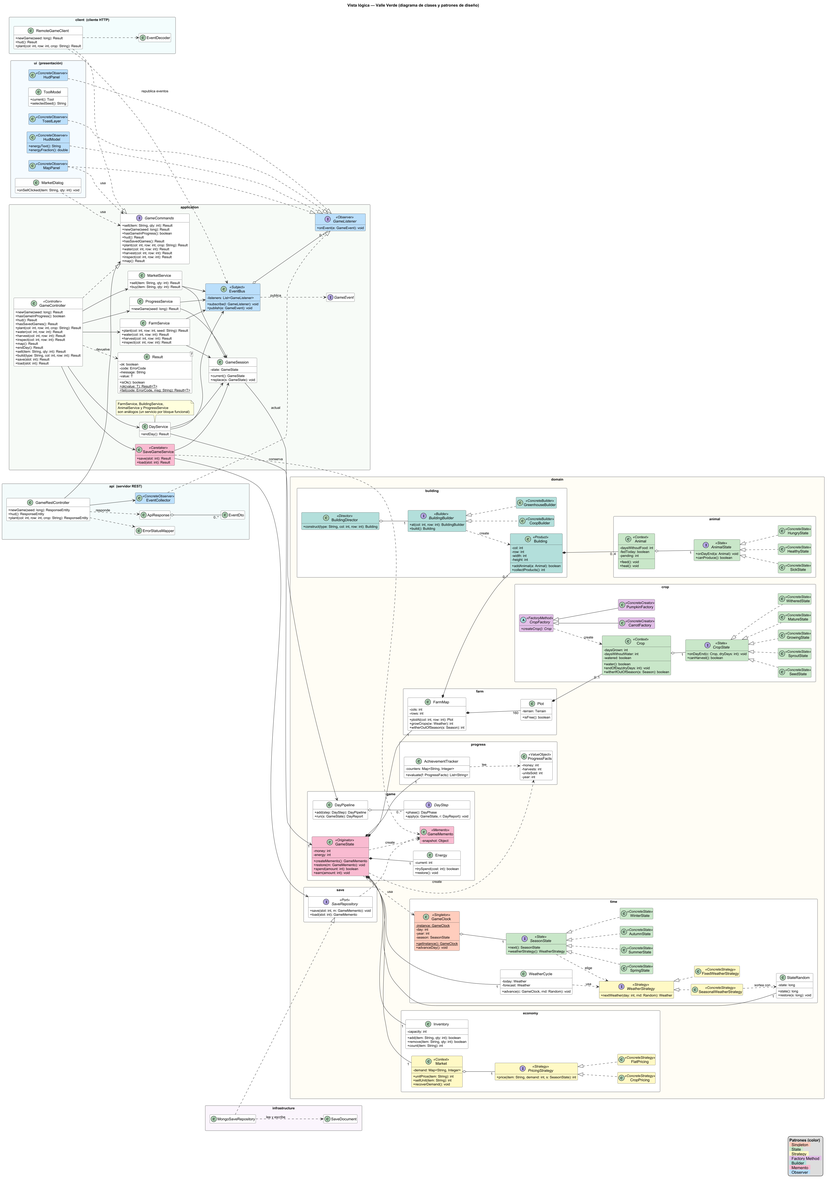
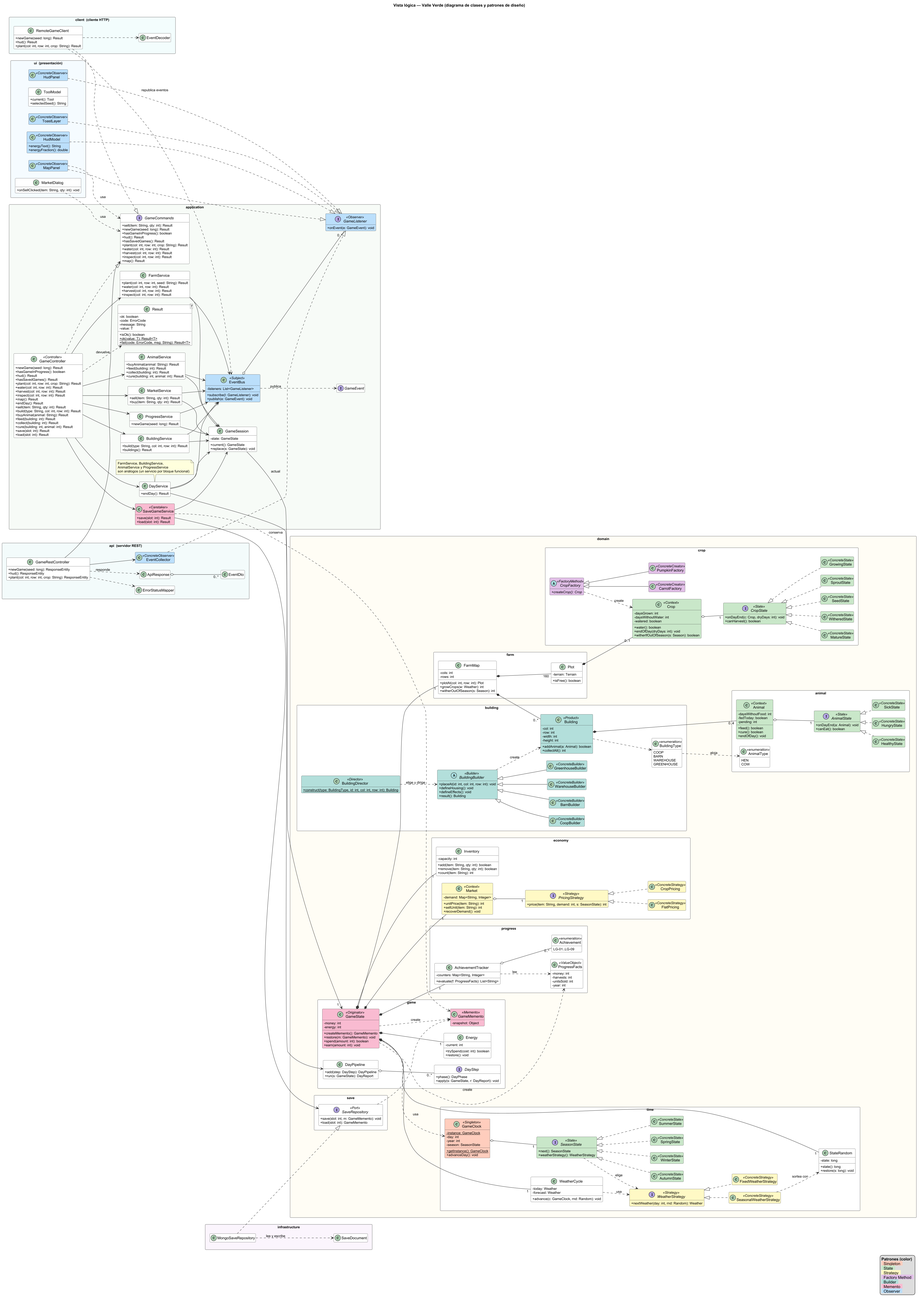
docs(architecture): record phase 5.4 results, extend the API reference and update the logical and development diagrams

diff --git a/docs/TRAZABILIDAD.md b/docs/TRAZABILIDAD.md
@@ -23,15 +23,15 @@
 | RF-14 | Must | HU-14 | Economía | BuyOfferView, GameCommands, GameController, GameEvent, GameRestController, GameState, Market, MarketDialog, MarketPresenter, MarketService, MarketView, RemoteGameClient | HU-14: 7 |
 | RF-15 | Must | HU-15 | Economía | CropPricing, FlatPricing, GameCommands, GameController, GameEvent, GameMemento, GameRestController, GameState, Market, MarketDialog, MarketPresenter, MarketService, MarketSnapshot, MarketStep, MarketView, PricingStrategy, RemoteGameClient, SellOfferView | HU-15: 12 |
 | RF-16 | Should | HU-16 | Economía | GameCommands, GameController, GameMemento, GameRestController, Market, MarketDialog, MarketPresenter, MarketService, MarketSnapshot, MarketStep, MarketView, RemoteGameClient, SellOfferView, Trend | HU-16: 6 |
-| RF-17 | Could | HU-17 | Tiempo y clima | pendiente | HU-17: 0 |
-| RF-18 | Must | HU-18 | Construcción y | pendiente | HU-18: 0 |
-| RF-19 | Must | HU-19 | Construcción y | pendiente | HU-19: 0 |
-| RF-20 | Must | HU-20 | Construcción y | pendiente | HU-20: 0 |
-| RF-21 | Must | HU-21 | Construcción y | pendiente | HU-21: 0 |
-| RF-22 | Must | HU-22 | Construcción y | pendiente | HU-22: 0 |
-| RF-23 | Should | HU-23 | Construcción y | pendiente | HU-23: 0 |
+| RF-17 | Could | HU-17 | Tiempo y clima | DayLedger, DayPipeline, DayReport, DayService, DaySummaryDialog, DaySummaryText, DaySummaryView, GameCommands, GameController, GameDialogs, GameEvent, GameMemento, GameRestController, GameScreen, GameScreenPresenter, GameState, LedgerSnapshot, RemoteGameClient, ViewMapper | HU-17: 9 |
+| RF-18 | Must | HU-18 | Construcción y | Achievement, AchievementTracker, BarnBuilder, Building, BuildingBuilder, BuildingDirector, BuildingOfferView, BuildingService, BuildingSnapshot, BuildingType, BuildingView, BuildingsView, ConstructionDialog, ConstructionPresenter, CoopBuilder, FarmMap, FarmMapSnapshot, GameCommands, GameController, GameDialogs, GameMemento, GameRestController, GameScreen, GameScreenPresenter, GameState, GreenhouseBuilder, MapRenderer, Names, RemoteGameClient, ViewMapper, WarehouseBuilder | HU-18: 17 |
+| RF-19 | Must | HU-19 | Construcción y | Animal, AnimalOfferView, AnimalService, AnimalSnapshot, AnimalType, AnimalView, Building, BuildingView, GameCommands, GameController, GameRestController, MapRenderer, MarketPresenter, MarketService, MarketView, RemoteGameClient | HU-19: 6 |
+| RF-20 | Must | HU-20 | Construcción y | Animal, AnimalService, Building, BuildingActionView, BuildingDialog, BuildingPresenter, GameCommands, GameController, GameRestController, GameScreen, GameScreenPresenter, RemoteGameClient | HU-20: 10 |
+| RF-21 | Must | HU-21 | Construcción y | Animal, AnimalCondition, AnimalSnapshot, AnimalState, AnimalView, AnimalsStep, DayReport, HealthyState, HungryState, SickState | HU-21: 5 |
+| RF-22 | Must | HU-22 | Construcción y | Animal, AnimalService, AnimalsStep, Building, BuildingActionView, BuildingDialog, BuildingPresenter, DayReport, GameCommands, GameController, GameRestController, GameScreen, GameScreenPresenter, HealthyState, HungryState, RemoteGameClient, SickState | HU-22: 10 |
+| RF-23 | Should | HU-23 | Construcción y | Animal, AnimalService, BuildingActionView, BuildingDialog, BuildingPresenter, GameCommands, GameController, GameRestController, GameScreen, RemoteGameClient, SickState | HU-23: 8 |
 | RF-24 | Could | HU-25 | Construcción y | pendiente | HU-25: 0 |
-| RF-25 | Should | HU-24 | Construcción y | pendiente | HU-24: 0 |
+| RF-25 | Should | HU-24 | Construcción y | Building, BuildingService | HU-24: 5 |
 | RF-26 | Must | HU-26 | Progreso | pendiente | HU-26: 0 |
 | RF-27 | Should | HU-27 | Progreso | pendiente | HU-27: 0 |
 | RF-28 | Must | HU-28 | Progreso | FarmMap, GameCommands, GameController, GameRestController, GameRules, GameSession, GameState, HudView, Plot, ProgressService, RemoteGameClient, Result, StartScreenPresenter, Terrain, ViewMapper | HU-28: 8 |
@@ -41,10 +41,10 @@
 | RF-32 | Should | HU-32 | Guardado | pendiente | HU-32: 0 |
 | RF-33 | Must | HU-33 | Interfaz de usuario | GameCommands, GameController, GameRestController, GameRules, GameScreen, Main, MongoSaveRepository, RemoteGameClient, SaveDocument, SaveGameService, SaveRepository, SaveStorageException, ScreenNavigator, ScreenRouter, StartScreen, StartScreenPresenter, Texts | HU-33: 11 |
 | RF-34 | Must | HU-34 | Interfaz de usuario | GameEvent, GameScreen, GameScreenPresenter, HudModel, HudPanel, HudView, Texts, ViewMapper | HU-34: 8 |
-| RF-35 | Must | HU-35 | Interfaz de usuario | CellPos, FarmService, GameCommands, GameController, GameRestController, GameScreen, MapGeometry, MapPanel, MapRenderer, MapView, Palette, PlotClickListener, RemoteGameClient, ViewMapper | HU-35: 10 |
-| RF-36 | Must | HU-36 | Interfaz de usuario | GameScreen, GameScreenPresenter, Shortcut, Texts, Tool, ToolBar, ToolModel | HU-36: 13 |
-| RF-37 | Must | HU-37 | Interfaz de usuario | GameCommands, GameController, GameDialogs, GameRestController, GameScreen, InventoryDialog, InventoryGrid, InventoryModel, InventoryView, MarketService, RemoteGameClient, SlotView | HU-37: 8 |
-| RF-38 | Must | HU-38 | Interfaz de usuario | BuyOfferView, GameCommands, GameController, GameDialogs, GameRestController, GameScreen, MarketDialog, MarketPresenter, MarketService, MarketView, RemoteGameClient, SellOfferView | HU-38: 8 |
+| RF-35 | Must | HU-35 | Interfaz de usuario | AnimalView, BuildingView, CellPos, FarmService, GameCommands, GameController, GameRestController, GameScreen, MapGeometry, MapPanel, MapRenderer, MapView, Palette, PlotClickListener, PlotText, RemoteGameClient, ViewMapper | HU-35: 14 |
+| RF-36 | Must | HU-36 | Interfaz de usuario | GameScreen, GameScreenPresenter, Shortcut, Texts, Tool, ToolBar, ToolModel | HU-36: 18 |
+| RF-37 | Must | HU-37 | Interfaz de usuario | GameCommands, GameController, GameDialogs, GameRestController, GameScreen, InventoryDialog, InventoryGrid, InventoryModel, InventoryView, MarketService, RemoteGameClient, SlotView | HU-37: 9 |
+| RF-38 | Must | HU-38 | Interfaz de usuario | AnimalOfferView, BuyOfferView, GameCommands, GameController, GameDialogs, GameRestController, GameScreen, MarketDialog, MarketPresenter, MarketService, MarketView, RemoteGameClient, SellOfferView | HU-38: 10 |
 | RF-39 | Should | HU-39 | Interfaz de usuario | pendiente | HU-39: 0 |
 | RF-40 | Could | HU-40 | Interfaz de usuario | pendiente | HU-40: 0 |
 | RF-41 | Could | HU-41 | Interfaz de usuario | pendiente | HU-41: 0 |
@@ -70,14 +70,14 @@
 | HU-14 · Comprar en el mercado | 5.3 | Must | 4 | 7 | completa | BuyOfferView, GameCommands, GameController, GameEvent, GameRestController, GameState, Market, MarketDialog, MarketPresenter, MarketService, MarketView, RemoteGameClient |
 | HU-15 · Vender con precio dinámico | 5.3 | Must | 6 | 12 | completa | CropPricing, FlatPricing, GameCommands, GameController, GameEvent, GameMemento, GameRestController, GameState, Market, MarketDialog, MarketPresenter, MarketService, MarketSnapshot, MarketStep, MarketView, PricingStrategy, RemoteGameClient, SellOfferView |
 | HU-16 · Tendencia de precio | 5.3 | Should | 4 | 6 | completa | GameCommands, GameController, GameMemento, GameRestController, Market, MarketDialog, MarketPresenter, MarketService, MarketSnapshot, MarketStep, MarketView, RemoteGameClient, SellOfferView, Trend |
-| HU-17 · Resumen del día | 5.4 | Could | 4 | 0 | sin pruebas | pendiente |
-| HU-18 · Construir edificios | 5.4 | Must | 6 | 0 | sin pruebas | pendiente |
-| HU-19 · Comprar animales | 5.4 | Must | 4 | 0 | sin pruebas | pendiente |
-| HU-20 · Alimentar animales | 5.4 | Must | 5 | 0 | sin pruebas | pendiente |
-| HU-21 · Estados del animal | 5.4 | Must | 4 | 0 | sin pruebas | pendiente |
-| HU-22 · Producción y recolección | 5.4 | Must | 4 | 0 | sin pruebas | pendiente |
-| HU-23 · Curar animales enfermos | 5.4 | Should | 4 | 0 | sin pruebas | pendiente |
-| HU-24 · Construir y usar el almacén | 5.5 | Should | 4 | 0 | sin pruebas | pendiente |
+| HU-17 · Resumen del día | 5.4 | Could | 4 | 9 | completa | DayLedger, DayPipeline, DayReport, DayService, DaySummaryDialog, DaySummaryText, DaySummaryView, GameCommands, GameController, GameDialogs, GameEvent, GameMemento, GameRestController, GameScreen, GameScreenPresenter, GameState, LedgerSnapshot, RemoteGameClient, ViewMapper |
+| HU-18 · Construir edificios | 5.4 | Must | 6 | 17 | completa | Achievement, AchievementTracker, BarnBuilder, Building, BuildingBuilder, BuildingDirector, BuildingOfferView, BuildingService, BuildingSnapshot, BuildingType, BuildingView, BuildingsView, ConstructionDialog, ConstructionPresenter, CoopBuilder, FarmMap, FarmMapSnapshot, GameCommands, GameController, GameDialogs, GameMemento, GameRestController, GameScreen, GameScreenPresenter, GameState, GreenhouseBuilder, MapRenderer, Names, RemoteGameClient, ViewMapper, WarehouseBuilder |
+| HU-19 · Comprar animales | 5.4 | Must | 4 | 6 | completa | Animal, AnimalOfferView, AnimalService, AnimalSnapshot, AnimalType, AnimalView, Building, BuildingView, GameCommands, GameController, GameRestController, MapRenderer, MarketPresenter, MarketService, MarketView, RemoteGameClient |
+| HU-20 · Alimentar animales | 5.4 | Must | 5 | 10 | completa | Animal, AnimalService, Building, BuildingActionView, BuildingDialog, BuildingPresenter, GameCommands, GameController, GameRestController, GameScreen, GameScreenPresenter, RemoteGameClient |
+| HU-21 · Estados del animal | 5.4 | Must | 4 | 5 | completa | Animal, AnimalCondition, AnimalSnapshot, AnimalState, AnimalView, AnimalsStep, DayReport, HealthyState, HungryState, SickState |
+| HU-22 · Producción y recolección | 5.4 | Must | 4 | 10 | completa | Animal, AnimalService, AnimalsStep, Building, BuildingActionView, BuildingDialog, BuildingPresenter, DayReport, GameCommands, GameController, GameRestController, GameScreen, GameScreenPresenter, HealthyState, HungryState, RemoteGameClient, SickState |
+| HU-23 · Curar animales enfermos | 5.4 | Should | 4 | 8 | completa | Animal, AnimalService, BuildingActionView, BuildingDialog, BuildingPresenter, GameCommands, GameController, GameRestController, GameScreen, RemoteGameClient, SickState |
+| HU-24 · Construir y usar el almacén | 5.5 | Should | 4 | 5 | completa | Building, BuildingService |
 | HU-25 · Construir y usar el invernadero | 5.6 | Could | 5 | 0 | sin pruebas | pendiente |
 | HU-26 · Registrar logros | 5.5 | Must | 5 | 0 | sin pruebas | pendiente |
 | HU-27 · Desbloquear edificios por logros | 5.5 | Should | 4 | 0 | sin pruebas | pendiente |
@@ -88,13 +88,13 @@
 | HU-32 · Listar ranuras de guardado | 5.5 | Should | 3 | 0 | sin pruebas | pendiente |
 | HU-33 · Pantalla de inicio | 5.1 | Must | 4 | 11 | completa | GameCommands, GameController, GameRestController, GameRules, GameScreen, Main, MongoSaveRepository, RemoteGameClient, SaveDocument, SaveGameService, SaveRepository, SaveStorageException, ScreenNavigator, ScreenRouter, StartScreen, StartScreenPresenter, Texts |
 | HU-34 · HUD superior | 5.1 | Must | 4 | 8 | completa | GameEvent, GameScreen, GameScreenPresenter, HudModel, HudPanel, HudView, Texts, ViewMapper |
-| HU-35 · Mapa de la granja | 5.2 | Must | 5 | 10 | completa | CellPos, FarmService, GameCommands, GameController, GameRestController, GameScreen, MapGeometry, MapPanel, MapRenderer, MapView, Palette, PlotClickListener, RemoteGameClient, ViewMapper |
-| HU-36 · Herramientas y clic sobre parcelas | 5.2 | Must | 5 | 13 | completa | GameScreen, GameScreenPresenter, Shortcut, Texts, Tool, ToolBar, ToolModel |
-| HU-37 · Inventario en grilla | 5.3 | Must | 4 | 8 | completa | GameCommands, GameController, GameDialogs, GameRestController, GameScreen, InventoryDialog, InventoryGrid, InventoryModel, InventoryView, MarketService, RemoteGameClient, SlotView |
-| HU-38 · Mercado modal | 5.3 | Must | 4 | 8 | completa | BuyOfferView, GameCommands, GameController, GameDialogs, GameRestController, GameScreen, MarketDialog, MarketPresenter, MarketService, MarketView, RemoteGameClient, SellOfferView |
+| HU-35 · Mapa de la granja | 5.2 | Must | 5 | 14 | completa | AnimalView, BuildingView, CellPos, FarmService, GameCommands, GameController, GameRestController, GameScreen, MapGeometry, MapPanel, MapRenderer, MapView, Palette, PlotClickListener, PlotText, RemoteGameClient, ViewMapper |
+| HU-36 · Herramientas y clic sobre parcelas | 5.2 | Must | 5 | 18 | completa | GameScreen, GameScreenPresenter, Shortcut, Texts, Tool, ToolBar, ToolModel |
+| HU-37 · Inventario en grilla | 5.3 | Must | 4 | 9 | completa | GameCommands, GameController, GameDialogs, GameRestController, GameScreen, InventoryDialog, InventoryGrid, InventoryModel, InventoryView, MarketService, RemoteGameClient, SlotView |
+| HU-38 · Mercado modal | 5.3 | Must | 4 | 10 | completa | AnimalOfferView, BuyOfferView, GameCommands, GameController, GameDialogs, GameRestController, GameScreen, MarketDialog, MarketPresenter, MarketService, MarketView, RemoteGameClient, SellOfferView |
 | HU-39 · Notificaciones (toasts) | 5.6 | Should | 4 | 0 | sin pruebas | pendiente |
 | HU-40 · Efectos visuales de estación y clima | 5.6 | Could | 4 | 0 | sin pruebas | pendiente |
 | HU-41 · Animaciones suaves | 5.6 | Could | 4 | 0 | sin pruebas | pendiente |
 | HU-42 · Carga de sprites con respaldo vectorial | 5.6 | Should | 4 | 0 | sin pruebas | pendiente |
 
-**Resumen:** 23 de 42 historias con todas sus pruebas; 194 pruebas `HUxx_` en total.
+**Resumen:** 31 de 42 historias con todas sus pruebas; 276 pruebas `HUxx_` en total.

diff --git a/docs/ARQUITECTURA.md b/docs/ARQUITECTURA.md
@@ -2,7 +2,7 @@
 
 > **Versión 0.2 · 2026-11-22 · Fase 5.2b (migración a Spring Boot)**
 > Formaliza el diseño propuesto en los diagramas ([`DIAGRAMAS.md`](DIAGRAMAS.md)): capas, árbol de paquetes, decisiones técnicas y plan de implementación por fases con sus historias ([`HISTORIAS_DE_USUARIO.md`](HISTORIAS_DE_USUARIO.md) §7). El plan de pruebas está en [`PLAN_DE_PRUEBAS.md`](PLAN_DE_PRUEBAS.md).
-> **Estado:** las Fases 5.0 (§10), 5.1 (§11), 5.2 (§12) y 5.2b (§13, migración a servidor Spring Boot con API REST, cliente Swing por HTTP y persistencia en MongoDB) y 5.3 (§14) están hechas. La Fase 5.4 empieza solo con tu visto bueno.
+> **Estado:** las Fases 5.0 (§10), 5.1 (§11), 5.2 (§12) y 5.2b (§13, migración a servidor Spring Boot con API REST, cliente Swing por HTTP y persistencia en MongoDB) 5.3 (§14) y 5.4 (§15) están hechas. La Fase 5.5 empieza solo con tu visto bueno.
 
 ## 1. Estilo arquitectónico
 
@@ -173,8 +173,8 @@ Como en la secuencia [A1](diagramas/A1_secuencia_vender_cosecha.png):
 | **5.2** Cultivo | HU-01 a 07, 35, 36 (**29**) | `FarmMap`, `Plot`, `Crop`, `CropState` ×5, `CropFactory` ×5, `FarmService`, pasos de crecimiento y marchitamiento, DTO de parcela, mapa Java2D en vectores, barra de herramientas, tooltips | mapa con parcelas, herramientas 1–5 y clic | State (cultivo), Factory Method | **1** (fuera de estación), **2** (inventario lleno) |
 | **5.2b** Migración a Spring Boot | — (sin historias nuevas: conserva las 163 pruebas) | `pom.xml` con Spring Boot 3.5.16; interfaz `GameCommands`; capa `api` (`GameRestController`, `ErrorStatusMapper`, `EventCollector`); `client` (`RemoteGameClient`); `config`; `MongoSaveRepository` en lugar de `JsonSaveRepository`; `Main` con modos; reglas AR-1 a AR-3 y AR-11; `docs/API.md` | la misma de la 5.2, ahora sobre HTTP | — (el Observer cruza la red en el sobre de respuesta) | todas las anteriores en verde; arranque ≤ 5 s (RNF-02) |
 | **5.3** Clima y economía | HU-12, 37, 14, 15, 16, 38 (**23**) | efectos del clima en el *pipeline*, `Market`, `PricingStrategy` ×2, `MarketService`, paso de mercado, `InventoryGrid`, `MarketDialog` | inventario en grilla y mercado modal | Strategy (precios) | **3** (helada), **4** (saturación) |
-| **5.4** Construcción y animales | HU-18 a 23, 17 (**21**) | `Building`, `BuildingBuilder` ×4, `BuildingDirector`, `Animal`, `AnimalState` ×3, `BuildingService`, `AnimalService`, paso de animales, `DaySummary` | diálogo de construcción y panel del edificio (alimentar, recolectar, curar) | Builder, State (animal) | **5** (animal enfermo no produce) |
-| **5.5** Progresión y persistencia | HU-26, 27, 24, 29, 30, 31, 32 (**24**) | `AchievementTracker`, `ProgressFacts`, desbloqueos, `GameMemento`, `GameStateValidator`, `SaveRepository`, `MongoSaveRepository`, `SaveCodec`, `Checksum`, `SaveGameService`; **pruebas de rendimiento a plena carga** (HU-10 · CA-3, HU-29 · CA-4, HU-30 · CA-4) | diálogos de ranuras, logros y atajos `F5`/`F9` | Memento (completo: documento en MongoDB) | **6** (guardar → cargar idéntico), **7** (partida dañada o inexistente) |
+| **5.4** Construcción y animales | HU-18 a 24, 17 (**23**) | `Building`, `BuildingBuilder` ×4, `BuildingDirector`, `Animal`, `AnimalState` ×3, `BuildingService`, `AnimalService`, paso de animales, `DaySummary` | diálogo de construcción y panel del edificio (alimentar, recolectar, curar) | Builder, State (animal) | **5** (animal enfermo no produce) |
+| **5.5** Progresión y persistencia | HU-26, 27, 29, 30, 31, 32 (**22**) | `AchievementTracker`, `ProgressFacts`, desbloqueos, `GameMemento`, `GameStateValidator`, `SaveRepository`, `MongoSaveRepository`, `SaveCodec`, `Checksum`, `SaveGameService`; **pruebas de rendimiento a plena carga** (HU-10 · CA-3, HU-29 · CA-4, HU-30 · CA-4) | diálogos de ranuras, logros y atajos `F5`/`F9` | Memento (completo: documento en MongoDB) | **6** (guardar → cargar idéntico), **7** (partida dañada o inexistente) |
 | **5.6** Interfaz visual y extras *(recortable)* | HU-39, 42, 25, 40, 41 (**19**) | `ToastLayer`, `AssetManager` y respaldo vectorial, invernadero, efectos (`ParticleSystem`, `DayNightTint`), animaciones con `Timer`; `docs/ASSETS.md`, README final y matriz de trazabilidad completa; decisión sobre FlatLaf | pulido visual | Observer (completado) | — |
 
 **Qué se actualiza al cerrar cada fase:** el diagrama de clases si aparecen clases nuevas con responsabilidad estructural, el de desarrollo si cambia un paquete o una dependencia (lo comprueba `tools/check_diagrams.py`) y la matriz de trazabilidad (RF → HU → diagrama → clases → pruebas).
@@ -279,7 +279,7 @@ Ajustes surgidos al implementar: (1) `Main` se declara como capa «Composition»
 | D-10 | La herramienta «Cosechar» cosecha, limpia o (en 5.4) recolecta según el contenido de la parcela | RN-34 |
 | D-11 | Código nuevo `CULTIVO_MARCHITO` en RN-35 | RN-07 manda rechazar el riego de un cultivo marchito y no había código para ello |
 | D-12 | Regar un cultivo maduro se permite (cuesta energía sin efecto) | RN-07 solo exige «vivo y sin regar hoy»; el rechazo necesitaría una regla nueva |
-| D-13 | Las herramientas «Construir» y «Alimentar» y los atajos `M`, `I`, `L`, `F5`, `F9` se pueden pulsar y responden «estará disponible en una fase posterior» | HU-36 · CA-1 y CA-5 piden que existan; sus pantallas llegan en 5.3, 5.4 y 5.5 |
+| D-13 | Las herramientas «Construir» y «Alimentar» y los atajos `M`, `I`, `L`, `F5`, `F9` se pueden pulsar; los que aún no tienen pantalla responden «estará disponible en una fase posterior» (en 5.3 y 5.4 ya funcionan `M`, `I`, «Construir» y «Alimentar»; quedan `L`, `F5` y `F9` para 5.5) | HU-36 · CA-1 y CA-5 piden que existan |
 | D-14 | `MapPanel` consulta el mapa solo al recibir un evento (`GameStarted`, `DayEnded`, `MapChanged`); no tiene `Timer` (lo verifica una prueba) | Regla de interfaz: actualizar por eventos, no por consulta en bucle |
 | D-15 | Geometría (`MapGeometry`) y dibujo (`MapRenderer`) son clases sin componente | Se prueban pintando sobre un `BufferedImage`, sin pantalla |
 
@@ -361,11 +361,50 @@ Ajustes surgidos al implementar: (1) `Main` se declara como capa «Composition»
 | Criterio | Qué falta | Fase |
 |---|---|---|
 | HU-28 · CA-1 | solo falta que los logros bloqueados empiecen con contadores en 0 (la demanda 100 ya se prueba) | 5.5 |
-| HU-37 · CA-2 | la grilla ya refleja la capacidad que informe el inventario; construir el Almacén (+12) llega con HU-20 | 5.4 |
-| HU-38 · CA-3 | el ejemplo de la Vaca (800 m): el catálogo de compra solo tiene semillas, heno y medicina; las compras de Gallina y Vaca llegan con los edificios. La prueba usa Medicina | 5.4 |
+| HU-37 · CA-2 | la grilla ya refleja la capacidad que informe el inventario; construir el Almacén (+12) | cerrado en 5.4 |
+| HU-38 · CA-3 | el ejemplo de la Vaca (800 m) | cerrado en 5.4 |
 | HU-10 · CA-3, HU-33 · CA-3 | rendimiento a plena carga y cargar una partida guardada | 5.5 |
-| HU-35 · CA-3, HU-36 · CA-4 | dibujar edificios y animales; recolectar sus productos con «Cosechar» | 5.4 |
+| HU-35 · CA-3, HU-36 · CA-4 | dibujar edificios y animales; recolectar sus productos con «Cosechar» | cerrados en 5.4 |
 | HU-36 · CA-5 | los atajos `L`, `F5` y `F9` aún responden que llegarán (`M` e `I` ya abren su función) | 5.5 |
 
 **Diagramas:** `04_vista_desarrollo` incluye las clases nuevas; el resto de vistas ya tenían el diseño de la economía (Strategy de precios, `MarketService`, `MarketDialog`). `check_diagrams.py` y `check_imports.py` terminan sin errores.
 
+---
+
+## 15. Estado de la Fase 5.4 (construcción y animales)
+
+**Historias cerradas (8 historias, 23 puntos):** HU-17, 18, 19, 20, 21, 22, 23 y 24. HU-24 (Almacén) se adelantó desde la 5.5 porque HU-37 · CA-2 pedía las 36 casillas. `python tools/traceability.py --upto 5.4` termina sin errores.
+
+| Resultado | Valor |
+|---|---|
+| Pruebas | 379 en verde y 2 omitidas con aviso (las de MongoDB real) |
+| Cobertura de líneas (JaCoCo) | **dominio 98,0 %**, **aplicación 97,8 %**, UI 91,8 %, API 95,7 %, cliente 90,0 % (barrera: 70 % en dominio y aplicación) |
+| Patrones aplicados | Builder: `BuildingBuilder` con `CoopBuilder`, `BarnBuilder`, `WarehouseBuilder`, `GreenhouseBuilder`, `BuildingDirector` y `Building` como producto; State: `AnimalState` con `HealthyState`, `HungryState`, `SickState` y `Animal` como contexto; todos registrados en `patterns.txt` |
+| Prueba crítica cerrada | **5** `HU22_ca2_aSickHenProducesNothing_criticalTest` (y la variante de la gallina hambrienta) |
+| API nueva | `GET|POST /api/buildings`, `POST /api/animals`, `POST /api/buildings/{id}/feeding`, `/collection` y `/animals/{n}/treatment`; el resumen del día viaja como evento `DaySummaryReady` (ver [`API.md`](API.md)) |
+| Verificadores | `check_hu.py`, `check_diagrams.py`, `check_imports.py` y `traceability.py` terminan sin errores |
+
+**Decisiones tomadas al implementar:**
+
+| # | Decisión | Motivo |
+|---|---|---|
+| D-33 | `Achievement` (los nueve logros de RN-28) y `AchievementTracker` ya existen con solo el conjunto de logros desbloqueados | RN-29 y HU-18 · CA-5 necesitan saber qué edificios están bloqueados; los contadores y la evaluación llegan en 5.5 (HU-26) |
+| D-34 | Construir comprueba en el orden de RN-21 (ubicación, desbloqueo, límite, saldo); comprar un animal comprueba primero el saldo y luego la plaza | HU-38 · CA-3 pide `SIN_FONDOS` aunque no haya Establo |
+| D-35 | Alimentar, recolectar y curar responden `BuildingActionView` (edificio, cantidad y un aviso opcional) | «No hay nada que alimentar», «animales enfermos omitidos» (HU-20 · CA-4) y «nada que recoger» son éxitos con aviso: RN-35 no tiene código para ellos |
+| D-36 | `GameState` lleva un `DayLedger` con ingresos y gastos del día (cada `earn` y `spend`), que entra en el memento; `DayPipeline` lo copia al `DayReport` y lo reinicia | HU-17 · CA-4: los acumulados parten en 0 cada día; el saldo anterior es `saldo nuevo − ingresos + gastos` |
+| D-37 | El resumen del día viaja como evento `DaySummaryReady` después de `DayEnded`; el diálogo no es modal | No cambia el cuerpo de `POST /api/game/days` y no bloquea el juego |
+| D-38 | Un edificio se identifica por su orden de construcción (no se demuelen) y las rutas son `/api/buildings/{id}/…`; un id o un animal inexistente responde `500 ERROR_INTERNO` | Como D-22 y D-32: la UI nunca los envía y RN-35 no tiene código para ello |
+| D-39 | Curar no es herramienta: se hace desde el panel del edificio. «Alimentar» y «Cosechar» actúan sobre el edificio bajo el clic, «Construir» abre el diálogo con la parcela pulsada como esquina y, sin herramienta, pulsar un edificio abre su panel | RN-27 y RN-34 |
+| D-40 | El catálogo de construcción incluye los cuatro edificios; el efecto del Invernadero (HU-25) llega en 5.6 | HU-18 lista el catálogo completo; construirlo ya funciona y cuesta lo que dice RN-20 |
+| D-41 | `MapView` lleva la lista de edificios (con sus animales) y `MarketView` la de animales en venta; los constructores anteriores se conservan | El mapa se dibuja de una sola consulta y la pestaña Comprar ofrece Gallina y Vaca |
+
+**Criterios cubiertos en parte (se completan donde nace lo que falta):**
+
+| Criterio | Qué falta | Fase |
+|---|---|---|
+| HU-17 · CA-2 | el resumen ya lista cultivos marchitos, animales enfermos y productos; falta la línea del logro desbloqueado | 5.5 |
+| HU-28 · CA-1 | solo falta que los logros bloqueados empiecen con contadores en 0 | 5.5 |
+| HU-10 · CA-3, HU-33 · CA-3 | rendimiento a plena carga y cargar una partida guardada | 5.5 |
+| HU-36 · CA-5 | los atajos `L`, `F5` y `F9` aún responden que llegarán | 5.5 |
+
+**Diagramas:** `03_vista_logica` y `04_vista_desarrollo` incluyen las clases y dependencias nuevas (`domain.game → animal/building`, `building → animal/economy/progress`, `animal → economy`); las seis vistas se volvieron a renderizar. `check_diagrams.py` y `check_imports.py` terminan sin errores.

diff --git a/README.md b/README.md
@@ -15,9 +15,10 @@ Simulador de granja 2D **por turnos** (un turno = un día), hecho en Java con Sw
 | **5.2** | Cultivo: sembrar, regar, crecer, cosechar, marchitar y limpiar, con el mapa Java2D, herramientas y atajos (9 historias) | **hecha** |
 | **5.2b** | Migración a Spring Boot: servidor con API REST, cliente Swing por HTTP y partidas en MongoDB | **hecha** |
 | **5.3** | Clima y economía: efectos del clima, mercado con precios dinámicos, tendencia, inventario en grilla y mercado modal (6 historias) | **hecha** |
-| 5.4 a 5.6 | Construcción y animales, progresión y guardado, pulido visual | pendientes |
+| **5.4** | Construcción y animales: construir, comprar y alimentar animales, estados, producción, curación, resumen del día y Almacén (8 historias) | **hecha** |
+| 5.5 y 5.6 | Progresión y guardado, pulido visual | pendientes |
 
-Hoy el juego abre la **pantalla de inicio** (Nueva partida, Cargar, Salir) y una pantalla de juego con la barra superior (dinero, fecha, clima, pronóstico y energía) y el botón «Terminar día». Desde la fase 5.2 también tiene el **mapa de la granja**: eliges una herramienta (teclas `1` a `5` o la barra), eliges la semilla y haces clic en una parcela de tierra para sembrar, regar y cosechar; `Enter` termina el día. Desde la 5.3 el clima importa (la lluvia riega, la helada marchita), `I` abre el **inventario** en grilla (clic en una semilla para elegirla) y `M` el **mercado** con las pestañas Comprar y Vender, precios que cambian con la temporada y la saturación, y la tendencia ▲ ▼ ▬. Los animales y el guardado llegan en las fases siguientes.
+Hoy el juego abre la **pantalla de inicio** (Nueva partida, Cargar, Salir) y una pantalla de juego con la barra superior (dinero, fecha, clima, pronóstico y energía) y el botón «Terminar día». Desde la fase 5.2 también tiene el **mapa de la granja**: eliges una herramienta (teclas `1` a `5` o la barra), eliges la semilla y haces clic en una parcela de tierra para sembrar, regar y cosechar; `Enter` termina el día. Desde la 5.3 el clima importa (la lluvia riega, la helada marchita), `I` abre el **inventario** en grilla (clic en una semilla para elegirla) y `M` el **mercado** con las pestañas Comprar y Vender, precios que cambian con la temporada y la saturación, y la tendencia ▲ ▼ ▬. Desde la 5.4 puedes **construir** (herramienta `4`: clic en una parcela de hierba libre y eliges el edificio), comprar gallinas y vacas en el mercado, **alimentar** (herramienta `5` o el panel del edificio), **recolectar** (herramienta `3` sobre el edificio) y curar a los animales enfermos desde el panel que se abre al pulsar un edificio; al terminar el día aparece el **resumen del día**. El guardado y los logros llegan en las fases siguientes.
 
 ## Requisitos
 
@@ -76,7 +77,7 @@ edu.ucc.farmsim
 | Singleton | `GameClock` | HU-09 | hecho (5.1) |
 | State | `SeasonState` con `SpringState`, `SummerState`, `AutumnState`, `WinterState` | HU-09 | hecho (5.1) |
 | State | `CropState` con `SeedState`, `SproutState`, `GrowingState`, `MatureState`, `WitheredState` (contexto `Crop`) | HU-03, HU-05 | hecho (5.2) |
-| State | `AnimalState` y sus estados concretos | HU-21 | 5.4 |
+| State | `AnimalState` con `HealthyState`, `HungryState`, `SickState` (contexto `Animal`) | HU-21 | hecho (5.4) |
 | Strategy | `WeatherStrategy` con `SeasonalWeatherStrategy` y `FixedWeatherStrategy` | HU-11 | hecho (5.1) |
 | Strategy | `PricingStrategy` con `CropPricing` y `FlatPricing` | HU-15 | hecho (5.3) |
 | Observer | `EventBus`, `GameListener`, `HudModel`, `HudPanel` | HU-10, HU-34 | hecho (5.1) |
@@ -86,7 +87,7 @@ edu.ucc.farmsim
 | Observer | `InventoryModel` | HU-37 | hecho (5.3) |
 | Observer | `EventCollector` (el servidor guarda los eventos para la respuesta) | RNF-15 | hecho (5.2b) |
 | Factory Method | `CropFactory` con `CarrotFactory`, `PotatoFactory`, `TomatoFactory`, `CornFactory`, `PumpkinFactory` | HU-01 | hecho (5.2) |
-| Builder | `BuildingBuilder`, `BuildingDirector` | HU-18 | 5.4 |
+| Builder | `BuildingBuilder` con `CoopBuilder`, `BarnBuilder`, `WarehouseBuilder`, `GreenhouseBuilder` y `BuildingDirector` | HU-18 | hecho (5.4) |
 
 > Cada clase de patrón lleva el Javadoc `Pattern: <nombre> — Role: <rol>` y está registrada en `src/test/resources/patterns.txt` (una prueba lo verifica). La tabla se actualiza al cerrar cada fase.
 

diff --git a/docs/API.md b/docs/API.md
@@ -1,6 +1,6 @@
 # API REST — Valle Verde
 
-> **Versión 0.2 · 2026-11-22 · Fase 5.3**
+> **Versión 0.3 · 2026-11-22 · Fase 5.4**
 > Describe las rutas que el servidor Spring Boot ofrece al cliente Swing (RNF-15, AR-12). El servidor escucha solo en `127.0.0.1`; con `java -jar farmsim.jar` el puerto es libre y lo conoce el cliente, y con `--server --port 8080` es el indicado. Hay **una partida por servidor** y no hay sesión de usuario.
 
 ## 1. Convenciones
@@ -33,11 +33,19 @@ Las columnas de tipo usan los *records* de `application.dto` (`HudView`, `PlotVi
 | `POST /api/market/sales` | `sell(itemId, quantity)` | `{ "itemId": "CARROT", "quantity": 3 }` | total recibido (m) | `200` |
 | `GET /api/market/quotes?itemId=CARROT&quantity=3` | `quote(itemId, quantity)` | — | total previsto (m), sin vender | `200` |
 | `GET /api/inventory` | `inventory()` | — | `InventoryView` (capacidad y casillas ocupadas) | `200` |
+| `GET /api/buildings` | `buildings()` | — | `BuildingsView` (los edificios y el catálogo de construcción) | `200` |
+| `POST /api/buildings` | `build(buildingId, col, row)` | `{ "buildingId": "COOP", "col": 2, "row": 7 }` | `BuildingView` | `201` |
+| `POST /api/animals` | `buyAnimal(animalId)` | `{ "animalId": "HEN" }` | `BuildingView` donde vive el animal | `201` |
+| `POST /api/buildings/{id}/feeding` | `feed(id)` | — | `BuildingActionView` (cantidad alimentada y aviso opcional) | `200` |
+| `POST /api/buildings/{id}/collection` | `collect(id)` | — | `BuildingActionView` (unidades recogidas y aviso opcional) | `200` |
+| `POST /api/buildings/{id}/animals/{n}/treatment` | `cure(id, n)` | — | `BuildingActionView` | `200` |
 | `GET /api/saves/any` | `hasSavedGames()` | — | `true` / `false` | `200` |
 
 `hasGameInProgress()` no tiene ruta propia: el cliente lo deduce de `GET /api/game` (`404 SIN_PARTIDA` = no hay partida).
 
-**Rutas planificadas** (se agregan con su historia, siempre con endpoint y prueba, DoD 11): `/api/buildings` y `/api/animals` (Fase 5.4) y `/api/saves/{slot}` (HU-29 a HU-32, con `PUT` para guardar y `POST …/load` para cargar).
+El **resumen del día** no tiene ruta: `POST /api/game/days` añade a sus eventos `DaySummaryReady` con `DaySummaryView` (ingresos, gastos, saldo anterior y nuevo y los hechos del día). `GET /api/market` incluye ahora los animales en venta y `GET /api/farm/map` los edificios con sus animales. Un edificio o un animal que no existe responde `500 ERROR_INTERNO` (nunca lo envía la interfaz).
+
+**Rutas planificadas** (se agregan con su historia, siempre con endpoint y prueba, DoD 11): `/api/saves/{slot}` (HU-29 a HU-32, con `PUT` para guardar y `POST …/load` para cargar).
 
 ### Ejemplo
 
